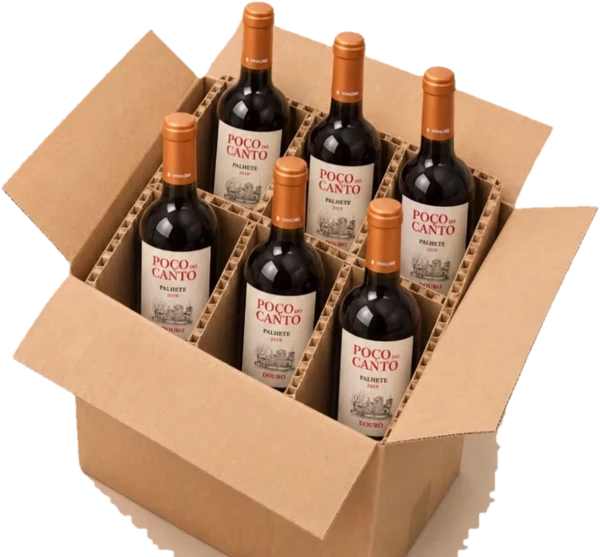
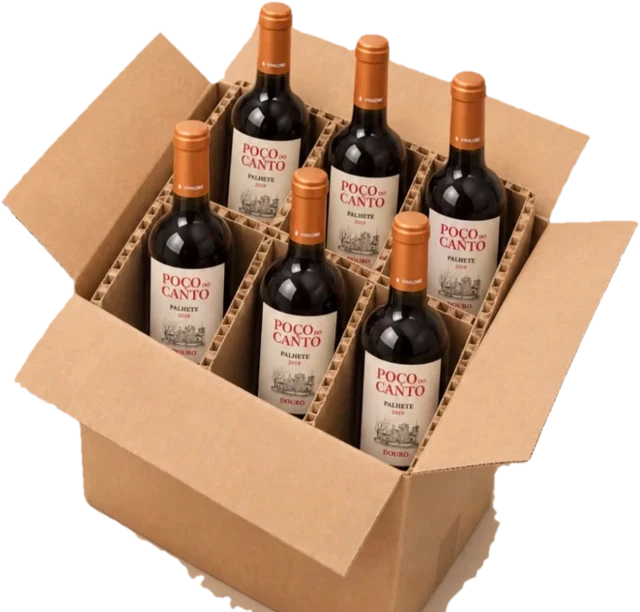
Poço do Canto box cut-out: the whole box (the photo was cut above its base)
Claude-Session: https://claude.ai/code/session_01EWtzk875t6rhPAsAmy8fPV

diff --git a/src/components/black-friday/black-friday.css b/src/components/black-friday/black-friday.css
@@ -131,7 +131,7 @@
 .bf-usual s{font:900 clamp(40px,11vw,60px)/1 Impact,"Arial Black",Arial,sans-serif;color:#2a2a2f;text-transform:none;letter-spacing:0;white-space:nowrap;text-decoration-color:rgba(227,22,27,.85);text-decoration-thickness:3px}
 .bf-was{font-size:13px}.bf-was s{white-space:nowrap;font-weight:800;color:#444;font-size:15px}
 /* Whole boxes on the options (Poço do Canto): 1 box; 2 boxes offset; 3 boxes as two behind and one in front. */
-.bf-bimg-boxes{aspect-ratio:1/0.82;max-width:170px}
+.bf-bimg-boxes{aspect-ratio:1/0.9;max-width:170px}
 .bf-bimg-boxes img{opacity:1!important;transform:none!important}
 .bf-bimg-boxes[data-qty="2"] img:nth-child(1){inset:0 30% 30% 0;width:70%;height:70%}
 .bf-bimg-boxes[data-qty="2"] img:nth-child(2){inset:30% 0 0 30%;width:70%;height:70%}
